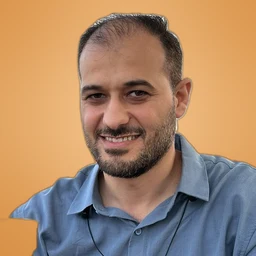
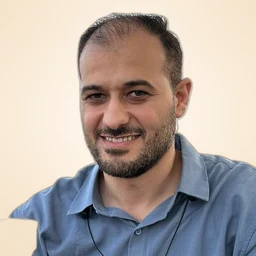
Fix Arabic letter spacing and the lone و before English words; light photo background

diff --git a/app/pages/yaman.vue b/app/pages/yaman.vue
@@ -351,7 +351,7 @@ useSeoMeta({
 .btn-light { @apply inline-flex h-11 items-center gap-2 rounded-xl border border-line bg-white px-[18px] text-sm font-semibold text-text transition hover:border-[#d8cfc6] hover:bg-paper-2; }
 .btn-dark :deep(svg), .btn-light :deep(svg) { width: 16px; height: 16px; }
 .kicker { @apply inline-flex items-center gap-2 text-[13px] font-bold tracking-wide text-caramel-dark before:h-px before:w-6 before:bg-caramel; }
-.h2 { @apply mt-2 mb-10 text-3xl font-bold tracking-tight sm:text-4xl; }
+.h2 { @apply mt-2 mb-10 text-3xl font-bold leading-snug tracking-tight text-balance sm:text-4xl; }
 .card { @apply rounded-2xl border border-line bg-white; }
 
 .hero-bg {

diff --git a/app/assets/css/main.css b/app/assets/css/main.css
@@ -49,3 +49,6 @@ html, body { overflow-x: clip; }
 /* Scroll reveal (see plugins/reveal.ts) */
 .reveal { opacity: 0; transform: translateY(18px); transition: opacity 0.6s ease, transform 0.6s cubic-bezier(0.2, 0.7, 0.2, 1); }
 .reveal.reveal-in { opacity: 1; transform: none; }
+
+/* Arabic letters join each other: tightening or widening the spacing breaks the joins */
+html[lang="ar"] :is(.tracking-tight, .tracking-wide, .h2) { letter-spacing: normal; }

diff --git a/app/components/BidiText.vue b/app/components/BidiText.vue
@@ -36,6 +36,10 @@ const parts = computed<Part[]>(() => {
     last = start + run.length
   }
   if (last < props.text.length) out.push({ text: props.text.slice(last), kind: 'plain' })
+  // A lone "و" (and) glued to an English word reads like a stray letter, so give it a thin gap
+  out.forEach((p, i) => {
+    if (p.kind === 'plain' && out[i + 1] && /(^|[\s(])و$/.test(p.text)) p.text += '\u2009'
+  })
   return out
 })
 </script>
